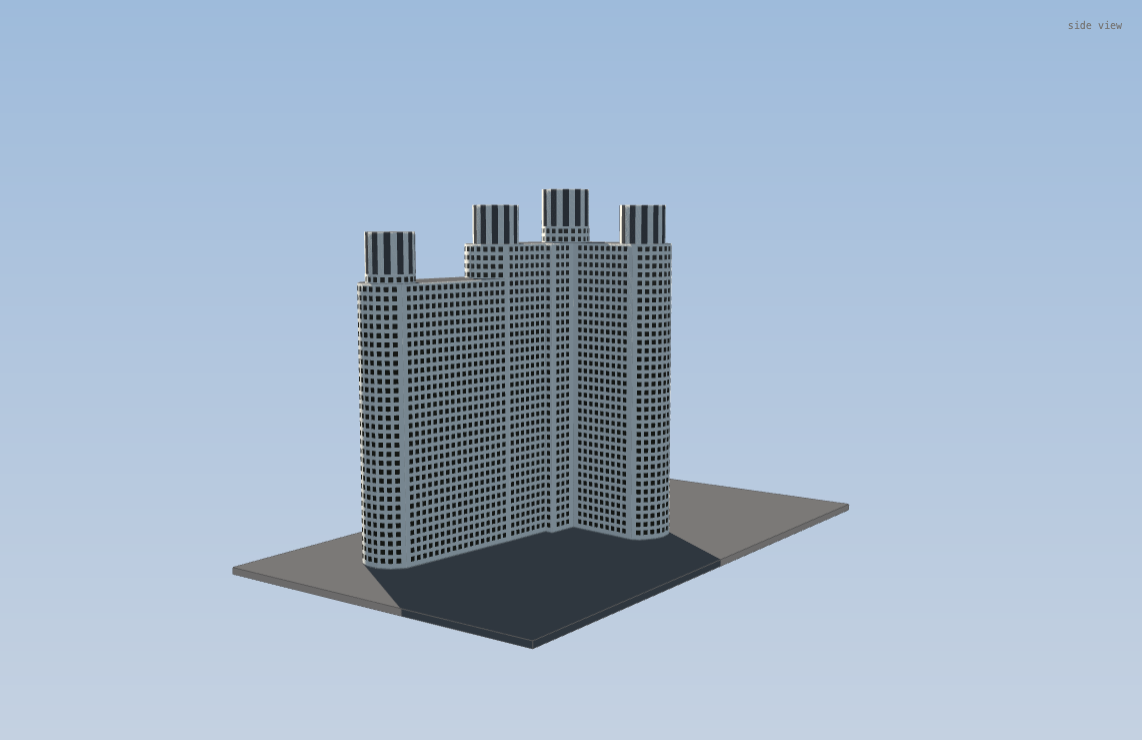
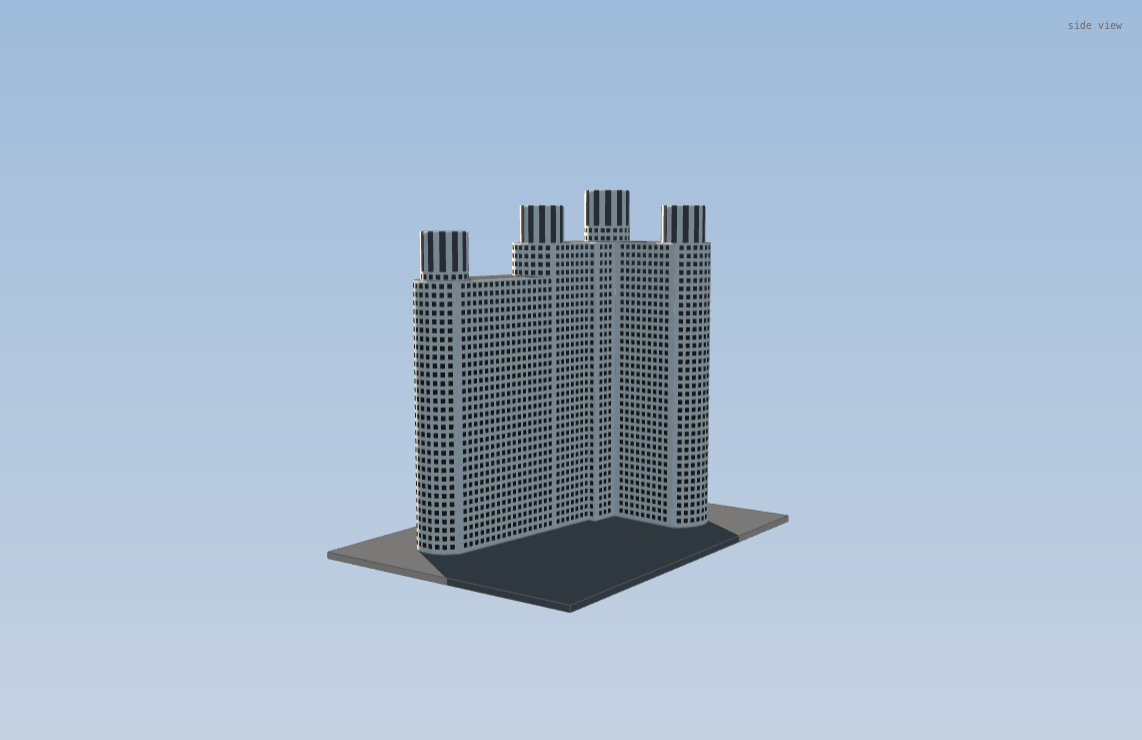
fix: include both Sheraton wings in mapped ground coverage

Changed region(s): [[0.1839, 0.2486, 0.7356, 0.8703]]

diff --git a/src/models/skyline-geography-data.ts b/src/models/skyline-geography-data.ts
@@ -21,6 +21,8 @@ export interface GeoBuilding {
   heightFromDrawing?: boolean;
   note: string;
   footprint: { way: number; version: number; coordinates: [number, number][] };
+  // Explicit non-overlapping mapped parts when the primary way omits modeled ground.
+  groundFootprintWays?: number[];
   parts: GeoPart[];
 }
 
@@ -82,7 +84,7 @@ export const geographicBuildings: GeoBuilding[] = [
   {"id": "building-office-west-of-aon","name": "Two Illinois Center","shortName": "Two Illinois Center","height": 114.3,"tipHeight": 114.3,"heightSource": "https://www.skyscrapercenter.com/chicago/two-illinois-center/11095","note": "Detailed Two Illinois Center: the mapped outline; a dark curtain wall of 32 storeys, mullions on a 5 ft module with glass over a spandrel on every floor at the photograph's 3.55 m pitch, and the top two floors' mechanical band, to a flat roof at the Skyscraper Center's 114.3 m. From the photograph's camera its lit floors fill the lower part of the gap between Two Prudential Plaza and Aon Center, in front of River Plaza.","footprint": {"way": 236770799,"version": 3,"coordinates": [[-87.6235661,41.8871124],[-87.6235636,41.8871174],[-87.6235524,41.8871216],[-87.6225645,41.8871339],[-87.622551,41.8871289],[-87.6225466,41.8871186],[-87.622541,41.8867998],[-87.6225469,41.8867912],[-87.6225543,41.8867879],[-87.6225638,41.8867865],[-87.6228061,41.8867819],[-87.6231721,41.8867773],[-87.6235523,41.886775],[-87.623557,41.8867781],[-87.6235613,41.8867836]]},"parts": [{"way": 236770799,"version": 3,"coordinates": [[-87.6235661,41.8871124],[-87.6235636,41.8871174],[-87.6235524,41.8871216],[-87.6225645,41.8871339],[-87.622551,41.8871289],[-87.6225466,41.8871186],[-87.622541,41.8867998],[-87.6225469,41.8867912],[-87.6225543,41.8867879],[-87.6225638,41.8867865],[-87.6228061,41.8867819],[-87.6231721,41.8867773],[-87.6235523,41.886775],[-87.623557,41.8867781],[-87.6235613,41.8867836]],"bottom": 0,"top": 114.3}]},
   {"id": "building-river-plaza","name": "River Plaza","shortName": "River Plaza","height": 159.7,"tipHeight": 159.7,"heightSource": "https://www.skyscrapercenter.com/chicago/river-plaza/3383","note": "Detailed River Plaza: the mapped outline and its parts; a white concrete slab of 56 storeys with notched corners, a grid of exposed frame and punched windows over the podium on the river side, to a flat roof at OpenStreetMap's 156 m, under the box on it to the Skyscraper Center's 159.7 m, its architectural height and tip; OpenStreetMap's 166 m for the box stands over the published tip. From the photograph's camera its top fills the gap between Two Prudential Plaza and Aon Center behind Two Illinois Center, the only mapped building on that sightline tall enough to reach the drawn top.","footprint": {"way": 285867424,"version": 6,"coordinates": [[-87.6260818,41.8900013],[-87.6261095,41.8899782],[-87.6261086,41.8899259],[-87.6261285,41.8899127],[-87.6261269,41.8898753],[-87.6261044,41.8898588],[-87.6261035,41.8898229],[-87.626103,41.8898052],[-87.6260771,41.8897865],[-87.6259425,41.8896905],[-87.6257902,41.8895791],[-87.6257288,41.8895898],[-87.6255231,41.8896255],[-87.6255256,41.8897934],[-87.6254949,41.8897941],[-87.6254648,41.889817],[-87.6254664,41.8898714],[-87.6254461,41.8898877],[-87.6254474,41.8899257],[-87.6254684,41.8899384],[-87.6254701,41.8899906],[-87.6255035,41.8900132],[-87.625675,41.8900085],[-87.6256968,41.8899927],[-87.6258816,41.8899874],[-87.6259031,41.8900027]]},"parts": [{"way": 68796725,"version": 10,"coordinates": [[-87.6254648,41.889817],[-87.6254664,41.8898714],[-87.6254461,41.8898877],[-87.6254474,41.8899257],[-87.6254684,41.8899384],[-87.6254701,41.8899906],[-87.6255035,41.8900132],[-87.625675,41.8900085],[-87.6256968,41.8899927],[-87.6258816,41.8899874],[-87.6259031,41.8900027],[-87.6260818,41.8900013],[-87.6261095,41.8899782],[-87.6261086,41.8899259],[-87.6261285,41.8899127],[-87.6261269,41.8898753],[-87.6261044,41.8898588],[-87.6261035,41.8898229],[-87.626103,41.8898052],[-87.6260771,41.8897865],[-87.6258989,41.8897905],[-87.6258799,41.8898052],[-87.6256906,41.8898092],[-87.6256664,41.8897938],[-87.6255256,41.8897934],[-87.6254949,41.8897941]],"bottom": 0,"top": 156},{"way": 68796733,"version": 5,"coordinates": [[-87.6260771,41.8897865],[-87.6259425,41.8896905],[-87.6257902,41.8895791],[-87.6257288,41.8895898],[-87.6255231,41.8896255],[-87.6255256,41.8897934],[-87.6256664,41.8897938],[-87.6256906,41.8898092],[-87.6258799,41.8898052],[-87.6258989,41.8897905]],"bottom": 0,"top": 8},{"way": 285867425,"version": 1,"coordinates": [[-87.6258543,41.8899579],[-87.6257153,41.8899611],[-87.6257111,41.8898629],[-87.6258501,41.8898597]],"bottom": 156,"top": 159.7}]},
   {"id": "building-hyatt-regency-west-tower","name": "Hyatt Regency Chicago West Tower","shortName": "Hyatt West Tower","height": 111.3,"tipHeight": 111.3,"heightSource": "https://www.skyscrapercenter.com/building/hyatt-regency-chicago-west-tower/13132","note": "Detailed Hyatt Regency Chicago West Tower: its mapped part of the hotel's outline; a brick slab of 33 storeys, narrow window slots continuous from the lobby to the top two floors on a 3.5 m module between solid corners, and a plain band over them to a flat roof at the Skyscraper Center's 111.3 m. From the photograph's camera it stands between Aon Center and the Blue Cross and Blue Shield Tower, where the drawing's Blue Cross group paints a dark brown sliver.","footprint": {"way": 235920252,"version": 4,"coordinates": [[-87.6227574,41.887587],[-87.6228537,41.887584],[-87.6228521,41.8874603],[-87.6228518,41.8874165],[-87.6225427,41.8874231],[-87.6225408,41.8875106],[-87.6225253,41.8875109],[-87.6225266,41.8875277],[-87.6225277,41.8875513],[-87.622528,41.8875746],[-87.6225382,41.8878947],[-87.62255,41.8878954],[-87.6225496,41.8879846],[-87.6228658,41.8879789],[-87.6228643,41.8879388],[-87.6228611,41.8878099],[-87.6227664,41.8878103]]},"parts": [{"way": 235920252,"version": 4,"coordinates": [[-87.6227574,41.887587],[-87.6228537,41.887584],[-87.6228521,41.8874603],[-87.6228518,41.8874165],[-87.6225427,41.8874231],[-87.6225408,41.8875106],[-87.6225253,41.8875109],[-87.6225266,41.8875277],[-87.6225277,41.8875513],[-87.622528,41.8875746],[-87.6225382,41.8878947],[-87.62255,41.8878954],[-87.6225496,41.8879846],[-87.6228658,41.8879789],[-87.6228643,41.8879388],[-87.6228611,41.8878099],[-87.6227664,41.8878103]],"bottom": 0,"top": 111.3}]},
-  {"id": "building-buckingham-east","name": "Sheraton Grand Chicago Riverwalk","shortName": "Sheraton Grand","height": 112.3,"tipHeight": 112.3,"heightSource": "https://www.skyscrapercenter.com/building/sheraton-chicago-hotel-towers/10020","note": "Detailed Sheraton Grand Chicago Riverwalk: the mapped tower and its corner part; a cream precast tower on an L of punched windows at Emporis's 2.67 m floor-to-floor, its arms to 94.76 m, the corner's round tower two floors higher to 100.1 m, and a drum of cream and maroon fins on each round end, the corner's to the Skyscraper Center's 112.3 m. Heights stand on the Skyscraper Center's datum: its top floor at 97 m, a floor-to-roof of 3.1 m and 12.2 m drums as Emporis gives them; the published height nearest the drawing's reading, over Emporis's 330.56 ft. The Skyscraper Center's 112.8 m tip, 50 cm over the drum, is not modelled. The drawing's buckingham-east group is its corner's lit drum over its tower. The mapped east wing and its round end continue the hotel to the east, with estimated roofs at 84.08 m and 86.75 m on the same height datum and a fourth crown. Photographs from before 2013 establish the wing; exact roof and crown dimensions remain inferred.","footprint": {"way": 592122464,"version": 5,"coordinates": [[-87.6199499,41.8891119],[-87.6199176,41.8893381],[-87.6199306,41.8893589],[-87.6199502,41.8893716],[-87.6199845,41.8893878],[-87.6200276,41.8893957],[-87.6200732,41.8893915],[-87.6201147,41.8893744],[-87.6201372,41.8893482],[-87.6201463,41.8893162],[-87.6201584,41.8892447],[-87.6201841,41.889063],[-87.6201875,41.8890302],[-87.6201812,41.8889946],[-87.6201588,41.8889641],[-87.620121,41.8889384],[-87.6200743,41.8889276],[-87.6196505,41.8888958],[-87.6196025,41.8889162],[-87.6195726,41.8889427],[-87.6195591,41.8889735],[-87.6195627,41.8890068],[-87.6195846,41.8890373],[-87.6196228,41.8890638],[-87.6198263,41.8890777],[-87.6198225,41.889104]]},"parts": [{"way": 592122464,"version": 5,"coordinates": [[-87.6199499,41.8891119],[-87.6199176,41.8893381],[-87.6199306,41.8893589],[-87.6199502,41.8893716],[-87.6199845,41.8893878],[-87.6200276,41.8893957],[-87.6200732,41.8893915],[-87.6201147,41.8893744],[-87.6201372,41.8893482],[-87.6201463,41.8893162],[-87.6201584,41.8892447],[-87.6201841,41.889063],[-87.6201875,41.8890302],[-87.6201812,41.8889946],[-87.6201588,41.8889641],[-87.620121,41.8889384],[-87.6200743,41.8889276],[-87.6196505,41.8888958],[-87.6196025,41.8889162],[-87.6195726,41.8889427],[-87.6195591,41.8889735],[-87.6195627,41.8890068],[-87.6195846,41.8890373],[-87.6196228,41.8890638],[-87.6198263,41.8890777],[-87.6198225,41.889104]],"bottom": 0,"top": 94.76},{"way": 1269924307,"version": 1,"coordinates": [[-87.6199691,41.8890378],[-87.6199677,41.889013],[-87.6199719,41.8889952],[-87.6199903,41.8889744],[-87.6200135,41.88896],[-87.6200416,41.8889517],[-87.6200717,41.8889503],[-87.6201037,41.8889568],[-87.6201308,41.8889711],[-87.6201498,41.8889914],[-87.6201583,41.8890152],[-87.6201555,41.8890398],[-87.6201415,41.8890622],[-87.6201241,41.8890776],[-87.6200882,41.8890904],[-87.6200552,41.8890928],[-87.6200258,41.8890875],[-87.6200001,41.8890757],[-87.6199805,41.8890586]],"bottom": 94.76,"top": 100.1},{"way": 1269924305,"version": 1,"coordinates": [[-87.6191033,41.8890226],[-87.6190622,41.8889954],[-87.6190428,41.8889627],[-87.6190431,41.8889236],[-87.6190607,41.8888928],[-87.619091,41.8888724],[-87.6191278,41.8888566],[-87.6193634,41.8888743],[-87.6196505,41.8888958],[-87.6196025,41.8889162],[-87.6195726,41.8889427],[-87.6195591,41.8889735],[-87.6195627,41.8890068],[-87.6195846,41.8890373],[-87.6196228,41.8890638]],"bottom": 0,"top": 84.08,"estimatedHeight": true},{"way": 1269924304,"version": 1,"coordinates": [[-87.619112,41.8888866],[-87.61909,41.8888996],[-87.6190746,41.888917],[-87.6190672,41.8889372],[-87.6190685,41.8889581],[-87.6190786,41.8889777],[-87.6190963,41.8889939],[-87.6191199,41.8890052],[-87.6191471,41.8890105],[-87.6191778,41.8890088],[-87.6192059,41.8889994],[-87.619228,41.8889835],[-87.6192416,41.8889629],[-87.6192449,41.8889401],[-87.6192376,41.8889179],[-87.6192207,41.8888988],[-87.6191959,41.8888851],[-87.6191665,41.8888785],[-87.6191384,41.8888793]],"bottom": 84.08,"top": 86.75,"estimatedHeight": true}]},
+  {"id": "building-buckingham-east","name": "Sheraton Grand Chicago Riverwalk","shortName": "Sheraton Grand","height": 112.3,"tipHeight": 112.3,"heightSource": "https://www.skyscrapercenter.com/building/sheraton-chicago-hotel-towers/10020","note": "Detailed Sheraton Grand Chicago Riverwalk: the mapped tower and its corner part; a cream precast tower on an L of punched windows at Emporis's 2.67 m floor-to-floor, its arms to 94.76 m, the corner's round tower two floors higher to 100.1 m, and a drum of cream and maroon fins on each round end, the corner's to the Skyscraper Center's 112.3 m. Heights stand on the Skyscraper Center's datum: its top floor at 97 m, a floor-to-roof of 3.1 m and 12.2 m drums as Emporis gives them; the published height nearest the drawing's reading, over Emporis's 330.56 ft. The Skyscraper Center's 112.8 m tip, 50 cm over the drum, is not modelled. The drawing's buckingham-east group is its corner's lit drum over its tower. The mapped east wing and its round end continue the hotel to the east, with estimated roofs at 84.08 m and 86.75 m on the same height datum and a fourth crown. Photographs from before 2013 establish the wing; exact roof and crown dimensions remain inferred.","footprint": {"way": 592122464,"version": 5,"coordinates": [[-87.6199499,41.8891119],[-87.6199176,41.8893381],[-87.6199306,41.8893589],[-87.6199502,41.8893716],[-87.6199845,41.8893878],[-87.6200276,41.8893957],[-87.6200732,41.8893915],[-87.6201147,41.8893744],[-87.6201372,41.8893482],[-87.6201463,41.8893162],[-87.6201584,41.8892447],[-87.6201841,41.889063],[-87.6201875,41.8890302],[-87.6201812,41.8889946],[-87.6201588,41.8889641],[-87.620121,41.8889384],[-87.6200743,41.8889276],[-87.6196505,41.8888958],[-87.6196025,41.8889162],[-87.6195726,41.8889427],[-87.6195591,41.8889735],[-87.6195627,41.8890068],[-87.6195846,41.8890373],[-87.6196228,41.8890638],[-87.6198263,41.8890777],[-87.6198225,41.889104]]},"parts": [{"way": 592122464,"version": 5,"coordinates": [[-87.6199499,41.8891119],[-87.6199176,41.8893381],[-87.6199306,41.8893589],[-87.6199502,41.8893716],[-87.6199845,41.8893878],[-87.6200276,41.8893957],[-87.6200732,41.8893915],[-87.6201147,41.8893744],[-87.6201372,41.8893482],[-87.6201463,41.8893162],[-87.6201584,41.8892447],[-87.6201841,41.889063],[-87.6201875,41.8890302],[-87.6201812,41.8889946],[-87.6201588,41.8889641],[-87.620121,41.8889384],[-87.6200743,41.8889276],[-87.6196505,41.8888958],[-87.6196025,41.8889162],[-87.6195726,41.8889427],[-87.6195591,41.8889735],[-87.6195627,41.8890068],[-87.6195846,41.8890373],[-87.6196228,41.8890638],[-87.6198263,41.8890777],[-87.6198225,41.889104]],"bottom": 0,"top": 94.76},{"way": 1269924307,"version": 1,"coordinates": [[-87.6199691,41.8890378],[-87.6199677,41.889013],[-87.6199719,41.8889952],[-87.6199903,41.8889744],[-87.6200135,41.88896],[-87.6200416,41.8889517],[-87.6200717,41.8889503],[-87.6201037,41.8889568],[-87.6201308,41.8889711],[-87.6201498,41.8889914],[-87.6201583,41.8890152],[-87.6201555,41.8890398],[-87.6201415,41.8890622],[-87.6201241,41.8890776],[-87.6200882,41.8890904],[-87.6200552,41.8890928],[-87.6200258,41.8890875],[-87.6200001,41.8890757],[-87.6199805,41.8890586]],"bottom": 94.76,"top": 100.1},{"way": 1269924305,"version": 1,"coordinates": [[-87.6191033,41.8890226],[-87.6190622,41.8889954],[-87.6190428,41.8889627],[-87.6190431,41.8889236],[-87.6190607,41.8888928],[-87.619091,41.8888724],[-87.6191278,41.8888566],[-87.6193634,41.8888743],[-87.6196505,41.8888958],[-87.6196025,41.8889162],[-87.6195726,41.8889427],[-87.6195591,41.8889735],[-87.6195627,41.8890068],[-87.6195846,41.8890373],[-87.6196228,41.8890638]],"bottom": 0,"top": 84.08,"estimatedHeight": true},{"way": 1269924304,"version": 1,"coordinates": [[-87.619112,41.8888866],[-87.61909,41.8888996],[-87.6190746,41.888917],[-87.6190672,41.8889372],[-87.6190685,41.8889581],[-87.6190786,41.8889777],[-87.6190963,41.8889939],[-87.6191199,41.8890052],[-87.6191471,41.8890105],[-87.6191778,41.8890088],[-87.6192059,41.8889994],[-87.619228,41.8889835],[-87.6192416,41.8889629],[-87.6192449,41.8889401],[-87.6192376,41.8889179],[-87.6192207,41.8888988],[-87.6191959,41.8888851],[-87.6191665,41.8888785],[-87.6191384,41.8888793]],"bottom": 84.08,"top": 86.75,"estimatedHeight": true}],"groundFootprintWays": [592122464,1269924305]},
   {"id": "building-three-illinois-center","name": "Three Illinois Center","shortName": "Three Illinois Center","height": 106.7,"tipHeight": 106.7,"heightSource": "https://www.skyscrapercenter.com/building/three-illinois-center/13913","note": "Detailed Three Illinois Center: the mapped outline; a dark bronze curtain wall of 30 storeys, mullions on a 5 ft module and glass over a spandrel on each floor at the published 11.5 ft slab to slab over a 5.06 m lobby, and the top two floors' windowless mechanical penthouse, glazed about 2019 but kept as the 2013 photograph shows it, under a flat roof at the Skyscraper Center's and Emporis's 350 ft. Its east end fills the gap between 340 on the Park and The Buckingham, where the drawing's buckingham-west group paints an office tower whose top stands about 140 layer units higher.","footprint": {"way": 95486958,"version": 12,"coordinates": [[-87.6204966,41.8869542],[-87.6202534,41.8869566],[-87.6200384,41.8869571],[-87.6200396,41.887005],[-87.6200455,41.8873733],[-87.620058,41.8876286],[-87.6205101,41.8876189],[-87.6205054,41.8873683]]},"parts": [{"way": 95486958,"version": 12,"coordinates": [[-87.6204966,41.8869542],[-87.6202534,41.8869566],[-87.6200384,41.8869571],[-87.6200396,41.887005],[-87.6200455,41.8873733],[-87.620058,41.8876286],[-87.6205101,41.8876189],[-87.6205054,41.8873683]],"bottom": 0,"top": 106.7}]},
   {"id": "building-swissotel","name": "Swissôtel Chicago","shortName": "Swissôtel","height": 139.3,"tipHeight": 139.3,"heightSource": "https://www.skyscrapercenter.com/building/swissotel-chicago/4362","note": "Detailed Swissôtel Chicago: the hotel's mapped tower part, a triangle; a flush grid of reflective glass, thin mullions about 1.5 m apart and a transom at each of OpenStreetMap's 45 levels, under a flat roof at the Skyscraper Center's 139.3 m. It stands behind Three Illinois Center and The Buckingham from the drawing's camera, and fills the seam where their corners meet. The hotel's outline, 95486966, adds a small block on the tower's north-east face, and its podium, 95486953, carries no height; neither is modelled.","footprint": {"way": 641288601,"version": 3,"coordinates": [[-87.6194102,41.8874254],[-87.619534,41.8875706],[-87.619676,41.8873866],[-87.6198184,41.8871906],[-87.6192311,41.8871971],[-87.619375,41.8873843]]},"parts": [{"way": 641288601,"version": 3,"coordinates": [[-87.6194102,41.8874254],[-87.619534,41.8875706],[-87.619676,41.8873866],[-87.6198184,41.8871906],[-87.6192311,41.8871971],[-87.619375,41.8873843]],"bottom": 0,"top": 139.3}]},
 ];

diff --git a/src/building-detail.ts b/src/building-detail.ts
@@ -3,7 +3,7 @@ import { createBuildingStudy } from "./study-viewer.js";
 import { skylineAzimuth } from "./skyline-comparison.js";
 import { geographicBuildings } from "./models/skyline-geography-data.js";
 import type { GeoBuilding } from "./models/skyline-geography-data.js";
-import { createGeographicBuilding, footprintMetrics, geographicOrigin } from "./models/skyline-geography.js";
+import { createGeographicBuilding, buildingGroundBounds, groundFootprints, geographicOrigin } from "./models/skyline-geography.js";
 import { createTimeLighting } from "./time-of-day.js";
 import { createDaylight, createSkylineColour } from "./models/colour-materials.js";
 
@@ -41,7 +41,7 @@ export function showBuildingDetail({ root, id, frame, signal, colour = false, on
 }
 
 function showBuilding(record: GeoBuilding, root: Document | ShadowRoot, frame: HTMLElement, signal: AbortSignal, initiallyColoured: boolean, onColourChange?: (enabled: boolean) => void): BuildingDetail {
-  const footprint = footprintMetrics(record.footprint.coordinates);
+  const footprint = buildingGroundBounds(record);
   // Centred on its mapped outline: ground coordinates are east and north, the scene's x and -z.
   const model = createGeographicBuilding(record, [-footprint.center[0], footprint.center[1]]);
   // The page names the building before the 3D view starts, so a failed start leaves it named.
@@ -56,9 +56,12 @@ function showBuilding(record: GeoBuilding, root: Document | ShadowRoot, frame: H
   const source = link(document, record.heightSource, record.heightFromDrawing ? `${number(record.height)}, measured on the drawing` : `${number(record.height)} architectural${osm}`);
   heights.replaceChildren(source, ...record.tipHeight !== record.height ? [` · tip ${number(record.tipHeight)}`] : []);
   root.querySelector<HTMLElement>("#building-note")!.textContent = record.note;
-  const way = link(document, `https://www.openstreetmap.org/way/${record.footprint.way}`, `OpenStreetMap way ${record.footprint.way}`);
+  const ways = groundFootprints(record).flatMap((part, index) => [
+    ...index ? [" and "] : [],
+    link(document, `https://www.openstreetmap.org/way/${part.way}`, `OpenStreetMap way ${part.way}`),
+  ]);
   root.querySelector<HTMLElement>("#building-facts")!.replaceChildren(
-    `Mapped outline ${footprint.size[0].toFixed(1)} × ${footprint.size[1].toFixed(1)} m, from `, way,
+    `Mapped outline ${footprint.size[0].toFixed(1)} × ${footprint.size[1].toFixed(1)} m, from `, ...ways,
     `. Model: ${model.triangleCount.toLocaleString("en-US")} triangles.`,
   );
   const min = new THREE.Vector3(Infinity, Infinity, Infinity), max = new THREE.Vector3(-Infinity, -Infinity, -Infinity);

diff --git a/src/models/skyline-geography.ts b/src/models/skyline-geography.ts
@@ -61,6 +61,23 @@ export function footprintMetrics(coordinates: [number, number][]): { min: Vec2; 
   return { min, max, center: min.map((n, i) => (n + max[i]!) / 2) as Vec2, size: min.map((n, i) => max[i]! - n) as Vec2, area };
 }
 
+// Some complexes have separately mapped wings beyond the primary way. Keep
+// their source ways intact, and opt in only disjoint ground parts of this model.
+export function groundFootprints(record: GeoBuilding): GeoBuilding["footprint"][] {
+  if (!record.groundFootprintWays) return [record.footprint];
+  return record.groundFootprintWays.map((way) => {
+    const part = record.parts.find((entry) => entry.way === way && entry.bottom === 0);
+    if (!part) throw new Error(`Missing ground footprint ${way} for ${record.id}`);
+    return part;
+  });
+}
+
+export function buildingGroundBounds(record: GeoBuilding): { min: Vec2; max: Vec2; center: Vec2; size: Vec2 } {
+  // Only extrema are meaningful for concatenated rings, not a polygon's area.
+  const { min, max, center, size } = footprintMetrics(groundFootprints(record).flatMap((part) => part.coordinates));
+  return { min, max, center, size };
+}
+
 function plan(coordinates: [number, number][]): Plan {
   const points = coordinates.map((p) => { const [east, north] = projectGround(p); return [east, -north] as Vec2; });
   const area = points.reduce((sum, a, i) => {
@@ -308,8 +325,18 @@ export function createGeographicGround(offset: [number, number] = [0, 0]): { gro
   group.add(streets);
   const outlines: Vec3[] = [];
   for (const record of geographicBuildings) {
-    const points: Vec3[] = record.footprint.coordinates.map((p) => { const [x, y] = projectGround(p); return [x, 0.1, -y]; });
-    points.forEach((p, i) => outlines.push(p, points[(i + 1) % points.length]!));
+    const edges = new Map<string, { points: [Vec3, Vec3]; count: number }>();
+    for (const footprint of groundFootprints(record)) {
+      const points: Vec3[] = footprint.coordinates.map((p) => { const [x, y] = projectGround(p); return [x, 0.1, -y]; });
+      points.forEach((p, i) => {
+        const q = points[(i + 1) % points.length]!;
+        const key = [p.join(","), q.join(",")].sort().join(";");
+        const prior = edges.get(key);
+        edges.set(key, { points: [p, q], count: (prior?.count ?? 0) + 1 });
+      });
+    }
+    // Shared mapped boundaries are inside the complex, not its ground outline.
+    for (const edge of edges.values()) if (edge.count === 1) outlines.push(...edge.points);
   }
   const footprints = lines(outlines, 0xc9c9c9);
   group.add(footprints);

diff --git a/tests/skyline-geography.test.ts b/tests/skyline-geography.test.ts
@@ -6,7 +6,7 @@ import type { Browser, Page } from "playwright";
 import * as THREE from "../src/vendor/three-r186.js";
 import type { BuildingModel, Vec2, Vec3 } from "../src/models/building-kit.js";
 import { geographicBuildings, geographicStreets } from "../src/models/skyline-geography-data.js";
-import { projectGround, footprintMetrics, createGeographicBuilding, createGeographicRoads, streetWidth } from "../src/models/skyline-geography.js";
+import { projectGround, footprintMetrics, createGeographicBuilding, buildingGroundBounds, groundFootprints, createGeographicRoads, streetWidth } from "../src/models/skyline-geography.js";
 import { floorLevel, onePrudentialLevels, wallStations } from "../src/models/one-prudential-tower.js";
 import { trumpSpire } from "../src/models/trump-geographic.js";
 import { trumpLevels } from "../src/models/trump-tower.js";
@@ -139,10 +139,11 @@ describe("mapped skyline geography", () => {
       });
       near(bounds.min[1], 0, 1e-5);
       near(bounds.max[1], height, 0.001);
-      near(groundBounds.min[0], metrics.min[0], 0.03);
-      near(groundBounds.max[0], metrics.max[0], 0.03);
-      near(-groundBounds.max[1], metrics.min[1], 0.03);
-      near(-groundBounds.min[1], metrics.max[1], 0.03);
+      const mappedGround = buildingGroundBounds(record);
+      near(groundBounds.min[0], mappedGround.min[0], 0.03);
+      near(groundBounds.max[0], mappedGround.max[0], 0.03);
+      near(-groundBounds.max[1], mappedGround.min[1], 0.03);
+      near(-groundBounds.min[1], mappedGround.max[1], 0.03);
     }
   }, { timeout: 180_000 });
 
@@ -2542,6 +2543,11 @@ describe("mapped skyline geography", () => {
   describe("Sheraton Grand Chicago Riverwalk", () => {
     test("keeps its mapped L and east wing, four finned drums and punched windows", () => {
       const record = geographicBuildings.find((r) => r.shortName === "Sheraton Grand")!;
+      expect(groundFootprints(record).map((part) => part.way)).toEqual([592122464, 1269924305]);
+      const mappedGround = buildingGroundBounds(record);
+      expect(mappedGround.size[0]).toBeGreaterThan(90);
+      expect(mappedGround.size[0]).toBeLessThan(100);
+      expect(mappedGround.center[0]).toBeGreaterThan(440);
       const model = models["Sheraton Grand"]!;
       model.building.updateMatrixWorld(true);
       const meshes = model.building.children.filter((child) => (child as THREE.Mesh).isMesh) as THREE.Mesh[];

diff --git a/src/models/sheraton-grand-geographic.ts b/src/models/sheraton-grand-geographic.ts
@@ -6,7 +6,8 @@ import type { GeoBuilding } from "./skyline-geography-data.js";
 
 // The Sheraton Grand Chicago Riverwalk, 301 East North Water Street (Solomon Cordwell Buenz,
 // 1992): the geographic layout's model, on mapped tower 592122464, corner part
-// 1269924307, and east-wing parts 1269924305/1269924304. The original layout has no model of it. The drawing's `buckingham-east` group,
+// 1269924307, and east-wing parts 1269924305/1269924304. The original layout has no
+// model of it. The drawing's `buckingham-east` group,
 // right of The Buckingham, is its corner: a lit crown over a tower of windows.
 //
 // A cream precast tower on an L, its arms ending in round towers, of punched windows at the
@@ -100,6 +101,7 @@ export function createSheratonGrandGeographicBuilding(record: GeoBuilding, proje
 
   // The skins, one box to a chain of runs turning less than 30°, so the round ends carry one:
   // a window 1.4 m wide in each 2.4 m bay, set out from the chain's middle, on every floor.
+  const towerRows = rowsFor(0.25, h.arms);
   const skin = (outline: Vec2[], base: number, top: number, seed: number, sharedWith?: Vec2[]) => {
     const plan = planOf(outline), heights = rowsFor(base, top);
     const same = (a: Vec2, b: Vec2) => Math.hypot(a[0] - b[0], a[1] - b[1]) < 1e-6;
@@ -126,7 +128,10 @@ export function createSheratonGrandGeographicBuilding(record: GeoBuilding, proje
         const to = k1 === chain.runs.length - 1 ? s1 : chain.starts[k1]! + plan[chain.runs[k1]!]!.length - 0.09;
         chainSkin(kit, wall, plan, chain, k0, k1, from, to, columns, heights, 0.02, 0.07, (bay, r) => {
           const middle = (columns[bay - 1]! + columns[bay]!) / 2;
-          return r % 2 === 1 && centres.some((c) => Math.abs(middle - c) < 0.7) ? paneColor(r, bay, seed * 16 + index) : precast;
+          // Keep the original tower's floor seed through the split at the
+          // wing roof, rather than restarting its window pattern above it.
+          const row = seed === 0 ? towerRows.findIndex((y) => Math.abs(y - heights[r]!) < 1e-5) : r;
+          return r % 2 === 1 && centres.some((c) => Math.abs(middle - c) < 0.7) ? paneColor(row, bay, seed * 16 + index) : precast;
         }, precast);
         k0 = k1 + 1;
       }

diff --git a/tests/building-detail.test.ts b/tests/building-detail.test.ts
@@ -2,7 +2,7 @@ import { afterAll, beforeAll, describe, expect, test } from "bun:test";
 import { chromium } from "playwright";
 import type { Browser, Page } from "playwright";
 import { geographicBuildings } from "../src/models/skyline-geography-data.js";
-import { footprintMetrics } from "../src/models/skyline-geography.js";
+import { footprintMetrics, buildingGroundBounds } from "../src/models/skyline-geography.js";
 
 // Run against the local static server; see docs/development.md. The detail page is what the skyline
 // viewer floats over its 3D skyline from a building's context menu; the full-screen 3D
@@ -41,9 +41,15 @@ describe("building detail", () => {
       for (const record of geographicBuildings) {
         await openDetail(page, record.id);
         expect(await page.locator("h1").textContent()).toBe(record.name);
+        if (record.id === "building-buckingham-east") {
+          expect(await page.locator("#building-facts").textContent()).toContain("Mapped outline 95.0 × 59.9 m");
+          expect(await page.locator("#building-facts a").evaluateAll((links) => links.map((a) => a.getAttribute("href")))).toEqual([
+            "https://www.openstreetmap.org/way/592122464", "https://www.openstreetmap.org/way/1269924305",
+          ]);
+        }
         // It opens circling the building on the turntable; each view below stops it.
         expect(await page.evaluate(() => [window.__buildingStudy!.modelNames.length, window.__buildingStudy!.turning])).toEqual([1, true]);
-        const { center } = footprintMetrics(record.footprint.coordinates);
+        const { center } = buildingGroundBounds(record);
         for (const view of ["quarter", "front", "side"]) {
           await page.locator(`[data-view="${view}"]`).click();
           await settle(page);

diff --git a/src/skyline-comparison.ts b/src/skyline-comparison.ts
@@ -1,6 +1,6 @@
 import * as THREE from "./vendor/three-r186.js";
 import { geographicBuildings } from "./models/skyline-geography-data.js";
-import { footprintMetrics, geographicOrigin } from "./models/skyline-geography.js";
+import { buildingGroundBounds, geographicOrigin } from "./models/skyline-geography.js";
 import type { BuildingModel } from "./models/building-kit.js";
 import type { StudyLayout } from "./study-types.js";
 import { createGeographicSkyline } from "./skyline-scene.js";
@@ -45,7 +45,7 @@ export function createSkylineComparison(models: BuildingModel[], anchor: THREE.V
         [point.x, point.z].forEach((n, axis) => { min[axis] = Math.min(min[axis]!, n); max[axis] = Math.max(max[axis]!, n); });
       }
     });
-    const footprint = footprintMetrics(record.footprint.coordinates);
+    const footprint = buildingGroundBounds(record);
     const row = document.createElement("tr");
     const name = document.createElement("th");
     name.scope = "row";

diff --git a/docs/sheraton-grand-reference.md b/docs/sheraton-grand-reference.md
@@ -57,6 +57,8 @@ so the model stands on its datum and takes Emporis's differences.
 | Top floor | 97 m | The Skyscraper Center: the highest occupied floor |
 | Corner's roof | 100.1 m | Emporis: 10.25 ft from the top floor to the main roof |
 | Arms' roof | 94.76 m | Two floors lower, the mapped arms' 32 levels to the corner's 34 |
+| East wing roof (estimated, 2026-10-17) | 84.08 m | 28 mapped levels relative to the corner |
+| East wing round end (estimated, 2026-10-17) | 86.75 m | 29 mapped levels relative to the corner |
 | Drums | 12.2 m | Emporis: 40.06 ft from the main roof to the architectural top |
 | Corner drum's top | 112.3 m | The Skyscraper Center |
 | Tip | 112.8 m, not modelled | The Skyscraper Center |
@@ -76,14 +78,16 @@ it more. The photographs show each arm one slab with the L to its round end, so 
 builds the mapped L to the arms' roof, at their mapped 32 levels. The corner's round tower
 rises on its mapped part, two floors over it, to the corner's roof.
 
-The drums stand on the three round ends, circles fitted to the mapped parts' arcs within
-11 cm:
+The original three drums stand on the round ends, circles fitted to the mapped
+parts' arcs within 11 cm. Corrected on 2026-10-17: the restored east wing adds a
+fourth round end, fitted within 1.7 cm:
 
 | Drum | Centre, east and north of Crain | Radius |
 | --- | --- | ---: |
 | Corner | 407.44, 465.95 m | 7.97 m |
 | East arm | 439.52, 462.06 m | 7.37 m |
 | North arm | 409.75, 498.32 m | 7.39 m |
+| East wing (restored 2026-10-17) | 482.703, 457.389 m | 7.391 m |
 
 Projected through the geographic camera, the corner drum spans 7,423 to 7,544 layer units,
 from 2,231 to 2,135. The drawn crown is as tall, 92 units against 96, and stands about 115
@@ -117,14 +121,14 @@ Omitted:
   overlaps, and covered omissions.
 - `tests/skyline-geography.test.ts` raycasts:
   - the corner drum's top at 112.3 m, the arms' drums' at 106.96 m and the arms' roof at
-    94.76 m, and the record's two parts;
+    94.76 m, plus the restored wing roof at 84.08 m and fourth crown at 98.95 m;
   - a drum's facets, cream and fin in turn;
   - the corner's two floors over the arms' roof, a window on each with its sill and head,
     and its own roof at 100.1 m under the drum;
   - the east arm's south face: 35 windows, one to each floor line under the arms' roof,
     with a sill and a head 5 cm either side;
   - the model's exported palette, whose window tones no wall shares;
-  - the exact mapped L at grade.
+  - the exact mapped L and restored east wing at grade (four record parts).
 
   Every mesh is closed.
 
@@ -249,8 +253,11 @@ are not runtime assets.
   Rechecked all eleven relation parts, including the 4–6-level podium parts and
   the 33-level inner block, plus the separate 29-level round end. Ways 1269924305
   and 1269924304 remain version 1, tagged 28 and 29 levels. Their exact node
-  coordinates enter the existing building's `parts`; the primary tower footprint,
-  placement and ownership stay anchored to way 592122464. The wing shares the old
+  coordinates enter the existing building's `parts`. The primary tower source
+  stays way 592122464; explicit ground ways 592122464 and 1269924305 supply the
+  combined 95.0 × 59.9 m bounds for detail centering, facts and ground outlines.
+  Shared edges are internal and omitted from the ground outline. Ownership and
+  geographic coordinates remain unchanged. The wing shares the old
   eastern arc, extending about 43 m beyond it. Coordinate precision is not survey
   accuracy; allow approximately a metre for tracing uncertainty.
 
@@ -278,14 +285,18 @@ Raycasts verify the lower eastern roof, the fourth crown and punched windows
 among opaque precast on the added south face. The new meshes remain children of
 the existing building for picking. Both mapped cores remain closed. Facade skins
 are omitted on the shared internal arc below the wing roof, with closed end caps;
-this removes the coplanar overlaps found during the first geometry check.
+this removes the coplanar overlaps found during the first geometry check. The
+upper tower skin retains its original floor seed after the height split, so the
+restored wing does not reshuffle the existing upper floors' window tones.
 
 Captures use a 1600 × 1000 viewport and reduced motion. Detail URLs are
 `building-detail.html?building=building-buckingham-east`, with colour toggled on
 and off; skyline URLs are `skyline-3d.html?controls=open`. Each pair keeps the
 same preset and camera position. For detail comparisons only, the capture route
 fixes `fit` to `{height: 240, width: 250}` in the served detail module, keeping
-framing identical when the wing changes the normal automatic fit. Canvas-only
+framing identical when the wing changes the normal automatic fit. Both phases
+use the combined ground centre (444.581164 east, 477.572184 north metres),
+including the old model before it had the wing. Canvas-only
 images exclude the changing descriptive text. The production detail still fits
 its whole model automatically.
 
@@ -293,7 +304,7 @@ its whole model automatically.
 | --- | --- | --- |
 | Front | [before](fidelity/sheraton-wing-front-grey-before.png) / [after](fidelity/sheraton-wing-front-grey-after.png) | [before](fidelity/sheraton-wing-front-day-before.png) / [after](fidelity/sheraton-wing-front-day-after.png) |
 | Side | [before](fidelity/sheraton-wing-side-grey-before.png) / [after](fidelity/sheraton-wing-side-grey-after.png) | [before](fidelity/sheraton-wing-side-day-before.png) / [after](fidelity/sheraton-wing-side-day-after.png) |
-| Skyline | [before](fidelity/sheraton-wing-skyline-grey-before.png) / [after](fidelity/sheraton-wing-skyline-grey-after.png) | [before](fidelity/sheraton-wing-skyline-day-before.png) / [after](fidelity/sheraton-wing-skyline-day-after.png) |
+| Skyline (unchanged; hotel out of frame) | [gray](fidelity/sheraton-wing-skyline-grey-after.png) | [day](fidelity/sheraton-wing-skyline-day-after.png) |
 | Elevated | [before](fidelity/sheraton-wing-quarter-grey-before.png) / [after](fidelity/sheraton-wing-quarter-grey-after.png) | [before](fidelity/sheraton-wing-quarter-day-before.png) / [after](fidelity/sheraton-wing-quarter-day-after.png) |
 
 Visual review: the close views now show the lower extension and fourth crown in
